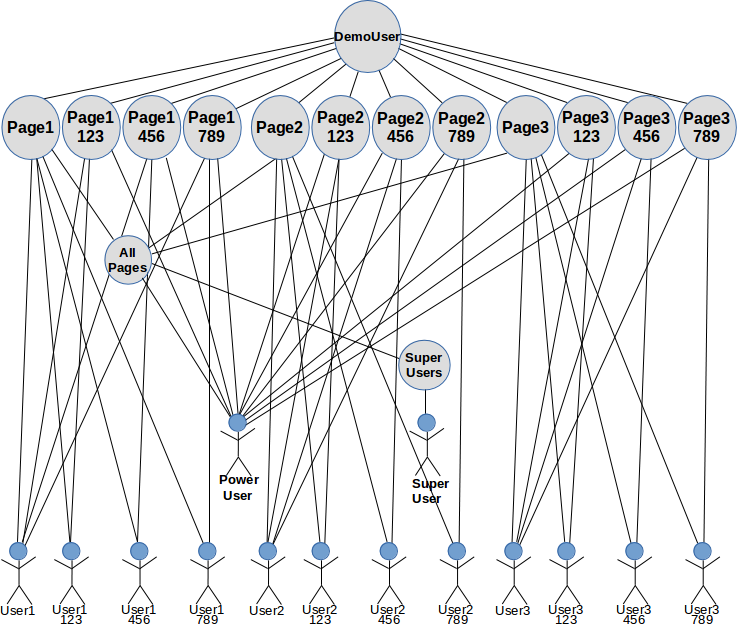
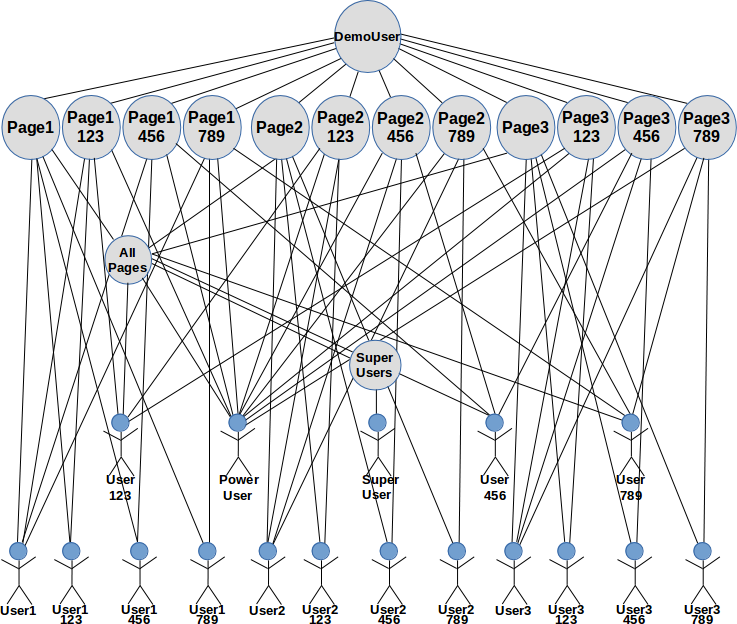
add role diagram

diff --git a/src/main/javadoc/doc-files/apache-fortress-demo.html b/src/main/javadoc/doc-files/apache-fortress-demo.html
@@ -32,11 +32,11 @@
                   Download the <a href="https://github.com/shawnmckinney/apache-fortress-demo/archive/master.zip">Apache Fortress Demo source bundle</a>.
           </li>
 
-          <br>
+          <hr>
 
           <li>Set java and maven home env variables.</li>
 
-          <br>
+          <hr>
 
           <li>
             Extract the package:
@@ -47,6 +47,8 @@ jar -xf apache-fortress-demo-master.zip
             </pre>
           </li>
 
+          <hr>
+
           <li>
               Change directory:
             <pre>
@@ -55,6 +57,8 @@ cd apache-fortress-demo-master/
                 </p>
             </pre>
           </li>
+
+          <hr>
 
           <li>
               Copy [apache-fortress-demo-master]/src/main/resources/fortress.properties.example to [apache-fortress-demo-master]/src/main/resources/fortress.properties.
@@ -65,6 +69,8 @@ cp ./src/main/resources/fortress.properties.example ./src/main/resources/fortres
                     </p>
                 </pre>
           </li>
+
+          <hr>
 
           <li>
               Edit [apache-fortress-demo-master]/src/main/resources/fortress.properties file.  Verify the settings match previous steps.  More info inline to params below...
@@ -114,11 +120,13 @@ perms.cached=true
                 </pre>
           </li>
 
+          <hr>
+
           <li>
               Save and exit.
           </li>
 
-          <br>
+          <hr>
 
           <li>
               To build and deploy this web application, run this command:
@@ -129,6 +137,8 @@ mvn tomcat:deploy
                 </pre>
           </li>
 
+          <hr>
+
           <li>
               If you need to redeploy this web application, run this command:
                 <pre>
@@ -138,8 +148,25 @@ mvn tomcat:redeploy -Dnoload
                 </pre>
           </li>
 
+          <hr>
+
           <li>
-              Connect to web app:
+              Automatically test using Apache Selenium.  Firefox must be installed before running this step.
+            <pre>
+                <p style="font: monospace; color: black; background-color: lightgrey; font-size: 10pt">
+mvn verify -DskipTests=false -Dnoload
+                </p>
+            </pre>
+              <p>Selenium verifies the test cases automatically.  For each user, attempts are made to hit all pages and components.  Positive and
+                  negative tests are performed.  Failures in test cases will halt the execution of the program.  The policy in effect is contained
+                  within <b>apache-fortress-demo-load-policy.xml</b> and loaded automatically during the web deployment step.
+              </p>
+          </li>
+
+          <hr>
+
+          <li>
+              Manually test by connecting to web app:
               <br><br>
               <ol type="a">
                   <li>
@@ -154,25 +181,44 @@ mvn tomcat:redeploy -Dnoload
                       local: <a href="https://localhost:8443/apache-fortress-demo">https://localhost:8443/apache-fortress-demo</a>,
                       remote: <a href="https://fortressdemo2.com:8443/apache-fortress-demo">https://fortressdemo2.com:8443/apache-fortress-demo</a>
                   </li>
-                  <br>
-                  Accept the self-signed certificate when the warning dialog appears.
               </ol>
-
+              <br>
+              Accept the self-signed certificate when the warning dialog appears.
+              <p>
+                  During manually testing, the credentials must match the tables that follow.  Activate/deactivate roles to gain access to different page
+                  and customer data sets.  There exists a dynamic separation of duty constraint (also described in the following tables) preventing activation of
+                  more than one page-customer role at a time.  Due to these complexities, it is best to run the selenium tests first, before attempting manual operation,
+                  in order to learn how to drive this app.
+              </p>
           </li>
 
-          <br>
+          <hr>
 
           <li>
-              Use Apache Selenium to drive Firefox through a range of security unit tests.  Firefox must be installed before running this step.
-            <pre>
-                <p style="font: monospace; color: black; background-color: lightgrey; font-size: 10pt">
-mvn verify -DskipTests=false -Dnoload
-                </p>
-            </pre>
+              More about testing this app...
+              <p>
+                  This diagram shows the complex role-to-role and user-role relationships in effect.  Page roles, e.g. Page1, provide access to the page itself.
+                  Page-Customer roles, e.g. Page1_123, provide access to the components and data matching a particular page to customer relationship.  Some users are limited
+                  to a single page, customer combo, e.g. user1_123.  Others have access to all pages for a given customer, e.g. user123, or access to all customers for a single
+                  page, e.g. user1.  SuperUser has access to all pages, all customers but that access is due to the given role, SuperUsers, being granted to all perms directly
+                  (as opposed of via inheritance relationships to the page-customer roles).
+              </p>
+              more on superuser...
+              <p>
+                  Granting superuser authority is a common <b>security antipattern</b>.  Giving access to all pages, all data violates the concept of least privilege.
+                  Poweruser is better approach.  Although the poweruser also has access to all pages, all customers, they may only have access to
+                  a given combination, one at a time.  The rationale: a user cannot simultaneously service two customers at the exact same time
+                  so why allow it in the first place?  Only give the user the access needed to perform their job at a given point in time.
+              </p>
+              <<img src="apache-fortress-demo-users-roles-sample-policy.png" height="75%" width="55%">
+              <br><br><b>Demo policy role-role and user-role relationships</b>
           </li>
 
+          <hr>
+
           <li>
-              The Selenium test cases verify the following test cases automatically.  The policy file is <b>apache-fortress-demo-load-policy.xml</b> and was loaded automatically during the web deployment step.
+              These tables contain definitions for the users, pws, and assigned roles:
+
               <ol type="a">
                   <br>
                   <li>
@@ -754,10 +800,6 @@ mvn verify -DskipTests=false -Dnoload
                   </li>
                   <br>
               </ol>
-              <hr>
-              The following diagram depicts the role-role and the user-role relationships defined by this security policy.
-              <br><img src="apache-fortress-demo-users-roles-sample-policy.png" height="75%" width="55%">
-              <br><br>Apache Fortress Demo role-role and user-role relationships
           </li>
           <br>
       </ol>
